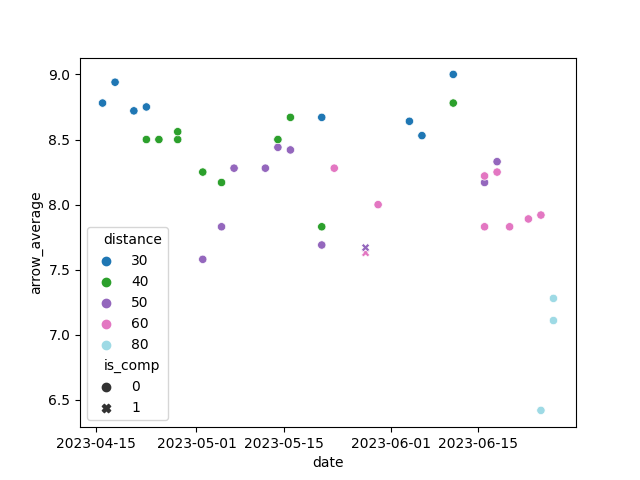
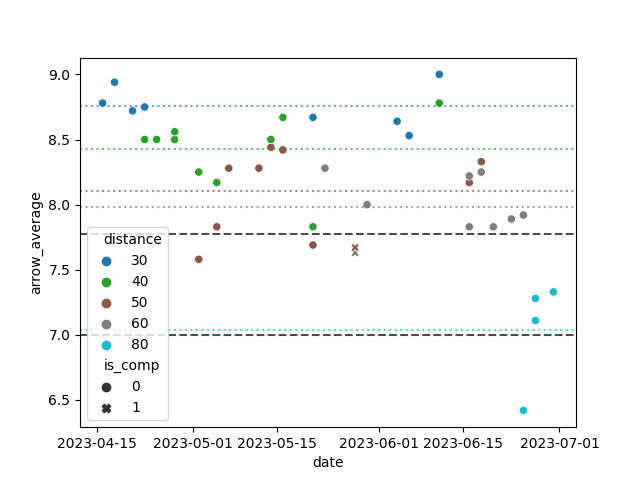
ADDED: Dashed lines corresponding to 252 scheme boundaries, dotted lines corresponding to distance averages

diff --git a/archery_predictor/app.py b/archery_predictor/app.py
@@ -11,7 +11,7 @@ app = Flask(__name__)
 app.config['SECRET_KEY'] = 'mysecret'
 
 # Load dataframe
-score_data = pd.read_csv(f"static/arrow_scores_summer_23.csv", header = 0)
+score_data = pd.read_csv(f"static/arrow_scores_outdoors_23.csv", header = 0)
 
 # Convert the date column from objects to datetypes 
 score_data.date = pd.to_datetime(score_data.date)
@@ -210,12 +210,23 @@ def plot_by(hue_type, label, cmap):
 plot_by(score_data.day_of_week, "day_of_week", cmap_seven)    
 plot_by(score_data.date.dt.month, "month", cmap_twelve)
 
+
+cmap = plt.cm.get_cmap('tab10', score_data.distance.nunique())
 sns.scatterplot(
     data = score_data,
     x = "date", y = "arrow_average",
     style = "is_comp",
     hue = "distance",
-    palette = plt.cm.get_cmap('tab20'),
+    palette = cmap,
 )
+
+averages = score_data.groupby(['distance']).mean().arrow_average
+for i, avg in enumerate(averages):
+    plt.axhline(avg, color=cmap.colors[i], alpha=0.7, linestyle=':')
+
+# 252 Scheme Boundaries
+plt.axhline(280 / 36, color='k', linestyle="dashed", alpha=0.7) # Compound
+plt.axhline(252 / 36, color='k', linestyle="dashed", alpha=0.7) # Recurve
+
 plt.savefig("distance_fig.png")
 plt.clf()
